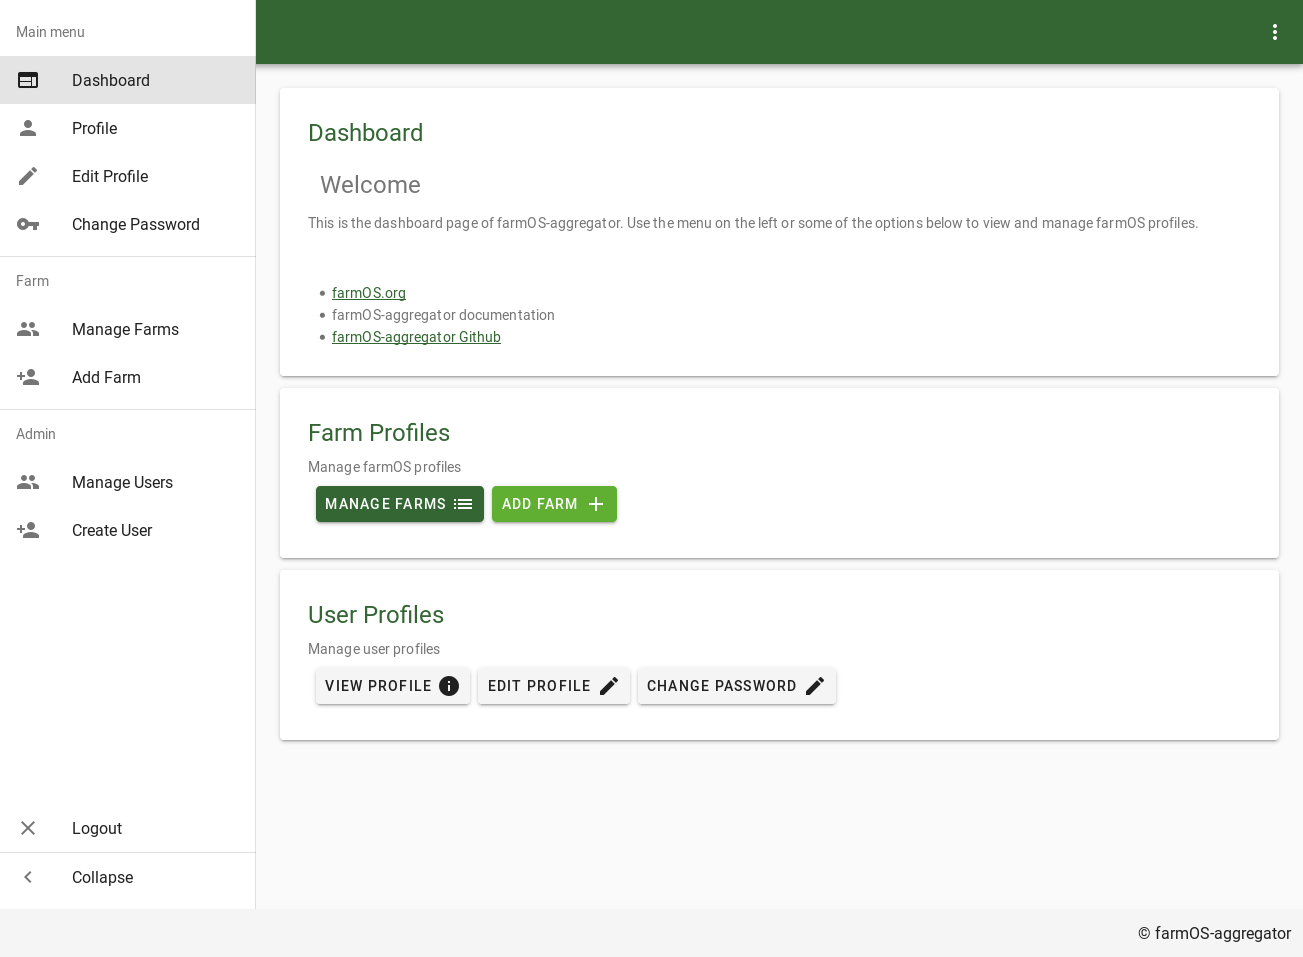
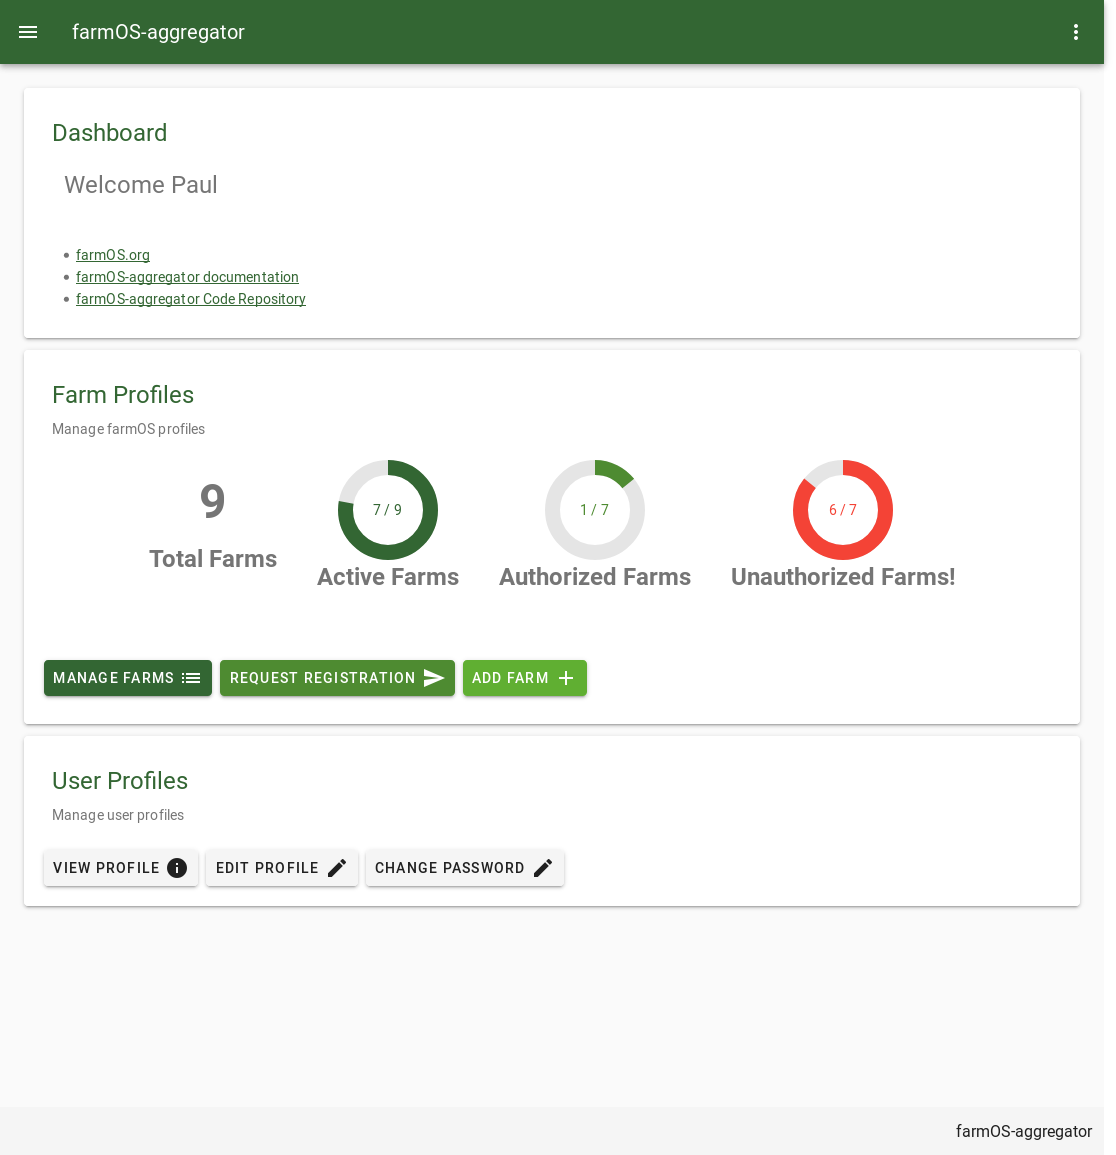
Add simple stats to the admin dashboard.

diff --git a/frontend/src/views/main/Dashboard.vue b/frontend/src/views/main/Dashboard.vue
@@ -6,12 +6,6 @@
       </v-card-title>
       <v-card-text>
         <div class="headline ma-3">Welcome {{greetedUser}}</div>
-        <div class="body2 font-weight ">
-          <p>
-            This is the dashboard page of farmOS-aggregator. Use the menu on the left
-            or some of the options below to view and manage farmOS profiles.
-          </p>
-        </div>
       </v-card-text>
       <v-card-text>
       <ul>
@@ -37,6 +31,60 @@
 
       <v-card-text>
         <div class="subheading">Manage farmOS profiles</div>
+
+        <div class="d-flex flex-row justify-center text-center">
+          <div class="pa-5">
+            <p class="display-2 font-weight-bold pt-4">
+              {{ totalFarms }}
+            </p>
+            <p class="headline font-weight-bold">
+              Total Farms
+            </p>
+          </div>
+          <div class="pa-5">
+            <v-progress-circular
+              :rotate="-90"
+              :size="100"
+              :width="15"
+              :value="(activeFarms/totalFarms)*100"
+              color="primary"
+            >
+              {{ activeFarms }} / {{ totalFarms}}
+            </v-progress-circular>
+            <p class="headline font-weight-bold">
+              Active Farms
+            </p>
+          </div>
+          <div class="pa-5">
+            <v-progress-circular
+              :rotate="-90"
+              :size="100"
+              :width="15"
+              :value="(authorizedFarms/activeFarms)*100"
+              color="secondary"
+            >
+              {{ authorizedFarms }} / {{ activeFarms}}
+            </v-progress-circular>
+            <p class="headline font-weight-bold">
+              Authorized Farms
+            </p>
+          </div>
+          <div class="pa-5" v-if="unauthorizedFarms > 0">
+            <v-progress-circular
+              :rotate="-90"
+              :size="100"
+              :width="15"
+              :value="(unauthorizedFarms/activeFarms)*100"
+              color="red"
+            >
+              {{ unauthorizedFarms }} / {{ activeFarms}}
+            </v-progress-circular>
+            <p class="headline font-weight-bold">
+              Unauthorized Farms!
+            </p>
+          </div>
+        </div>
+
       </v-card-text>
       <v-card-actions>
         <v-btn color="primary" to="/main/farm/farms/">
@@ -94,11 +142,30 @@ import { Component, Vue } from 'vue-property-decorator';
 import { readUserProfile } from '@/store/main/getters';
 import FarmRequestRegistrationDialog from '@/components/FarmRequestRegistrationDialog.vue';
 import FarmAuthorizationStatus from '@/components/FarmAuthorizationStatus.vue';
+import {readFarms} from '@/store/farm/getters';
 
 @Component({
     components: {FarmRequestRegistrationDialog},
 })
 export default class Dashboard extends Vue {
+  public totalFarms: number = 0;
+  public activeFarms: number = 0;
+  public inactiveFarms: number = 0;
+  public authorizedFarms: number = 0;
+  public unauthorizedFarms: number = 0;
+
+  public async mounted() {
+      this.totalFarms = this.farms.length;
+      this.activeFarms = this.farms.filter((farm) => farm.active).length;
+      this.inactiveFarms = this.farms.filter((farm) => !farm.active).length;
+      this.authorizedFarms = this.farms.filter((farm) => farm.active && farm.is_authorized).length;
+      this.unauthorizedFarms = this.farms.filter((farm) => farm.active && !farm.is_authorized).length;
+  }
+
+  get farms() {
+      return readFarms(this.$store);
+  }
+
   get greetedUser() {
     const userProfile = readUserProfile(this.$store);
     if (userProfile && userProfile.full_name) {

diff --git a/docs/using-farmos-aggregator.md b/docs/using-farmos-aggregator.md
@@ -18,6 +18,10 @@ See [configuration](./configuration.md) on how to configure farmOS Aggregator.
 
 A dashboard with an overview of information is available at [http://localhost/dashboard](http://localhost/dashboard)
 
+Features:
+- Displays simple stats showing the total number of farms, active farms, and authorized farms. Useful to quickly see if
+any farms have become unauthorized.
+
 ## Managing farmOS Aggregator Users
 
 ![Users](../img/ui/manage_users.png)
